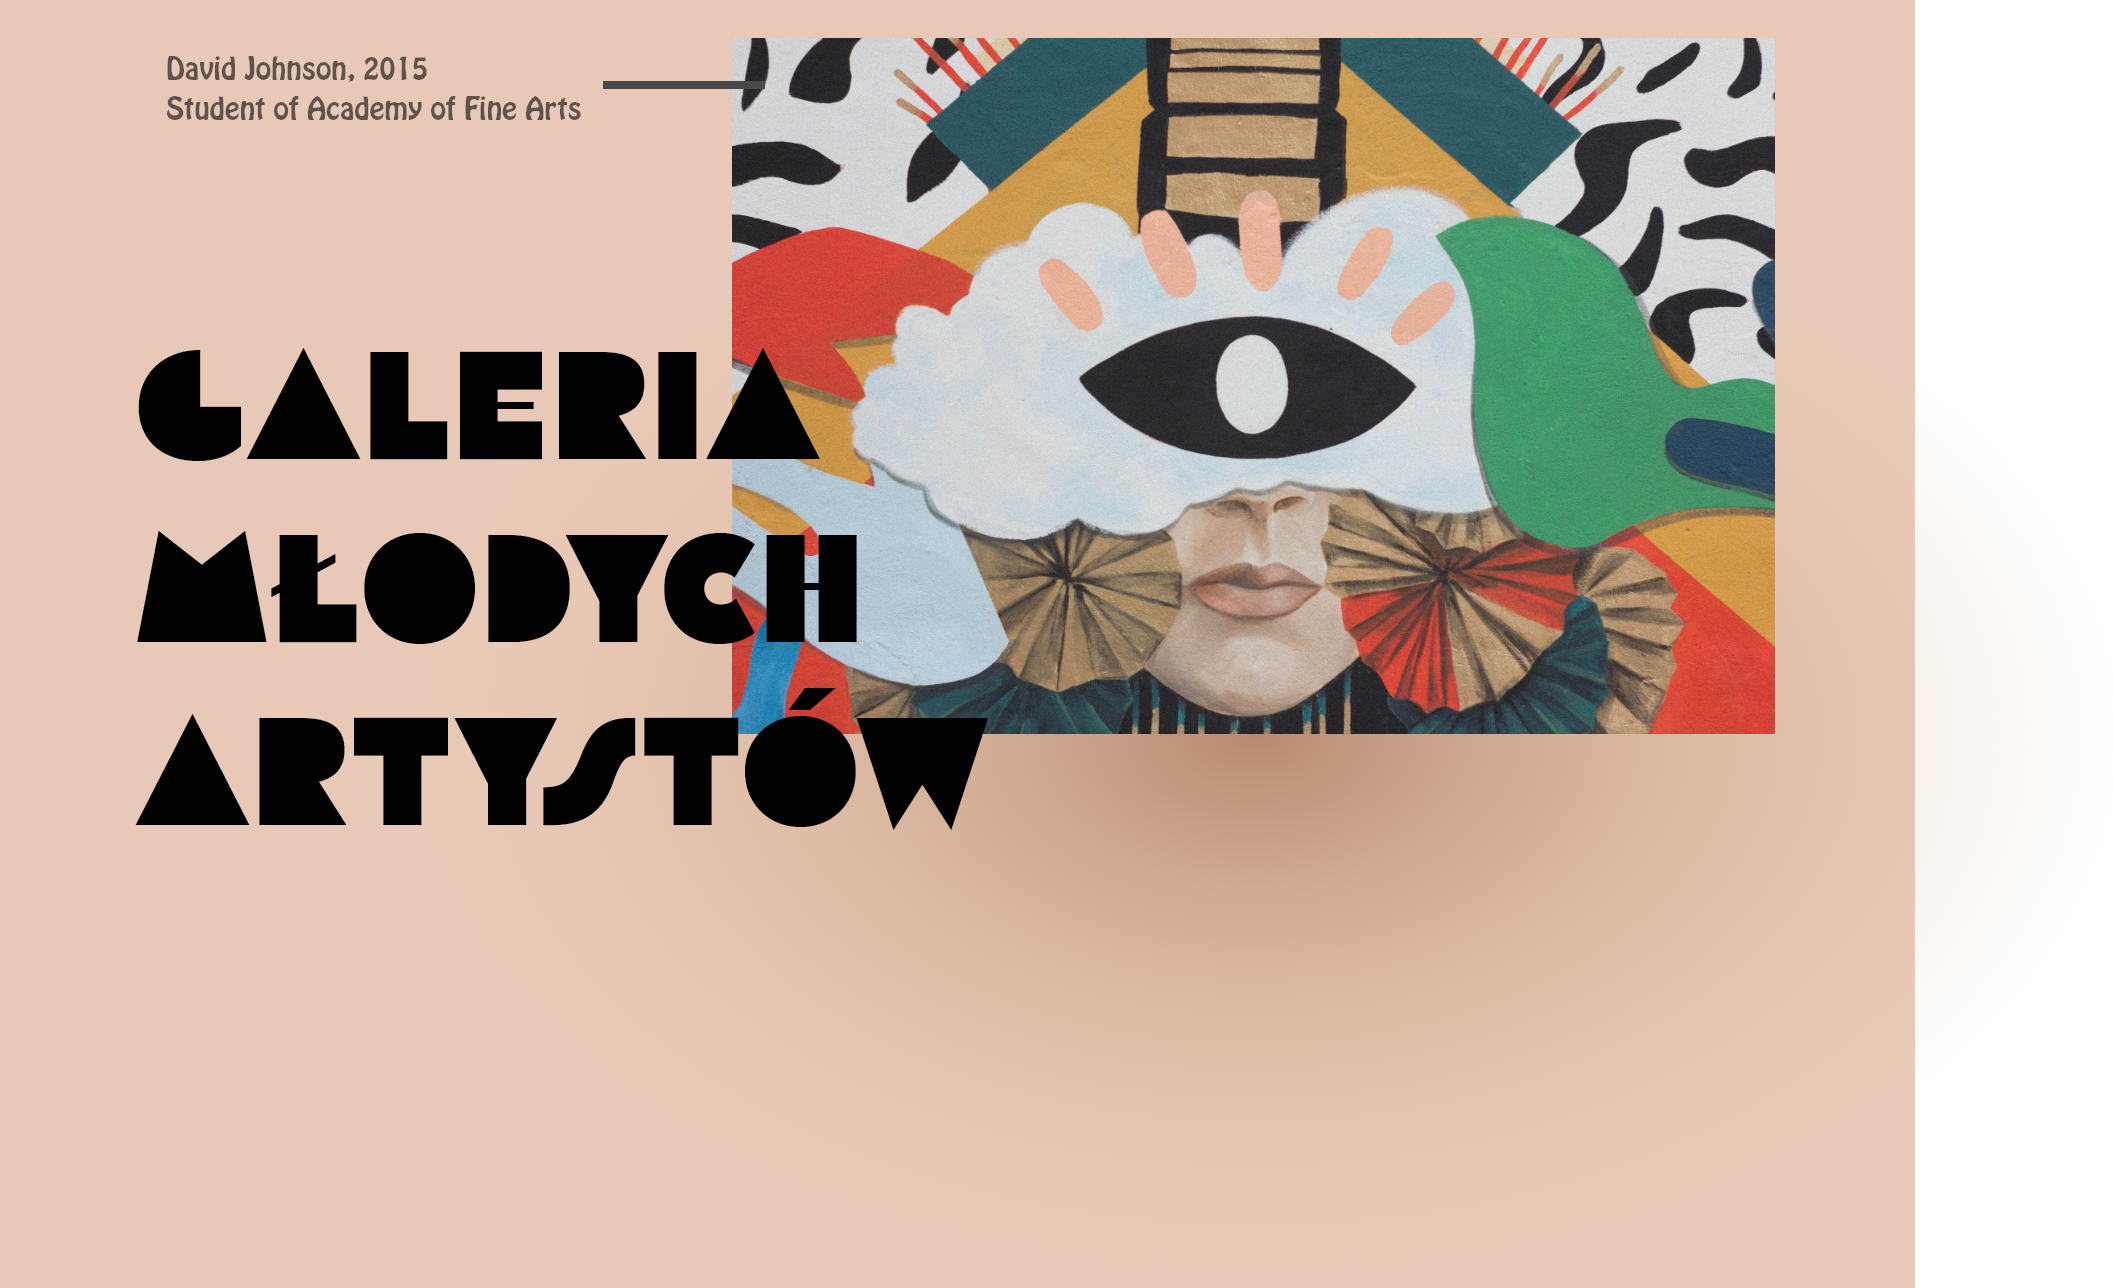
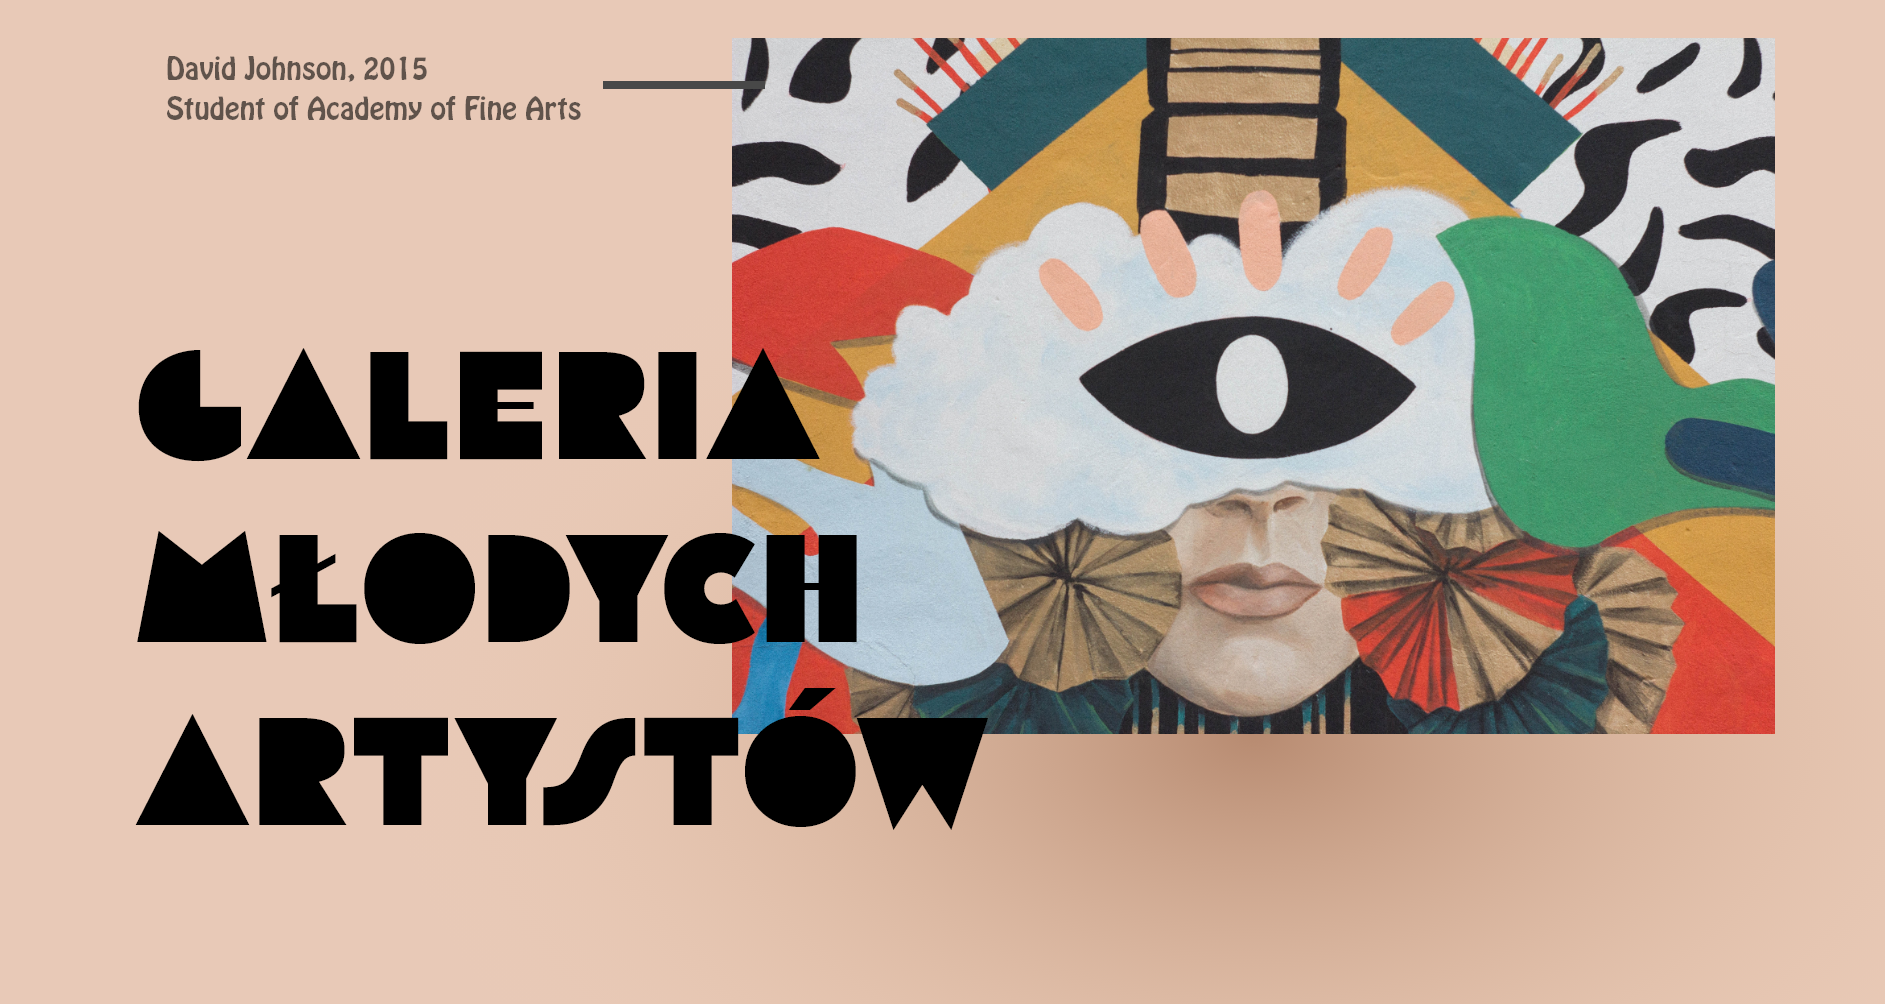
added searchbar, cart menu, updated the homepage

diff --git a/src/app/login/login.page.html b/src/app/login/login.page.html
@@ -1,50 +1,72 @@
 <ion-header [translucent]="true">
   <ion-toolbar color="pink">
     <ion-buttons slot="start">
-      <ion-menu-button autoHide="false"></ion-menu-button>    
+      <ion-menu-button autoHide="true"></ion-menu-button>    
     </ion-buttons>  
-    <ion-buttons slot="secondary">
-      <ion-button (click)="clickedSearch()">
+    <ion-searchbar mode="ios" cancel-button-icon="arrow-back-sharp" *ngIf="isSearchbarOpened" showCancelButton="true" (search)="onSearch($event)" (ionCancel)="isSearchbarOpened=false"></ion-searchbar>
+    <ion-buttons slot="end">
+      <ion-button *ngIf="!isSearchbarOpened" (click)="isSearchbarOpened=true">
         <ion-icon slot="icon-only" name="search"></ion-icon>
       </ion-button>
-      <ion-button href='/login'>
+       <ion-button href='/login' >
         <ion-icon slot="icon-only" name="person-sharp"></ion-icon>
       </ion-button>
-    </ion-buttons>
-    <ion-buttons slot="primary">
-      <ion-button>
-        <ion-icon slot="icon-only" name="cart-sharp"></ion-icon>
+      <ion-button (click)="openCart()">
+        <ion-icon slot="icon-only" name="cart-sharp">
+        </ion-icon>
       </ion-button>
     </ion-buttons>
   </ion-toolbar>
 </ion-header>
-<ion-menu side="start" menuId="menu" contentId="main">
-  <ion-content color="pink">
-    <ion-segment><br></ion-segment>
-    <ion-segment><br></ion-segment>
-    <ion-segment>
-      <ion-img  class="ion-text-center" style="width: 70px;" src="../../assets/LOGO.png" ></ion-img> <!-- logo w jakimkolwiek telefonie ucieka w prawo -->
-    </ion-segment>
-    <ion-segment><br></ion-segment>
-    <ion-button href='/tabs/feed' expand="full" fill="clear" >
-      PRACE
-    </ion-button>
-    <ion-button (click)="openInspiration()" expand="full" fill="clear" >
-      INSPIRACJE
-    </ion-button>
-    <ion-button (click)="openFrames()" expand="full" fill="clear" >
-      RAMY
-    </ion-button>
-    <ion-button (click)="openContact()" expand="full" fill="clear" >
-      KONTAKT
-    </ion-button>
-    <ion-button (click)="openFAQ()" expand="full" fill="clear" >
-      FAQ
-    </ion-button>
-  </ion-content>
-</ion-menu>
-<ion-router-outlet id="main"></ion-router-outlet>
 
+<ion-content [fullscreen]="true" color="pink">
+  <ion-menu side="start" menuId="menu" contentId="main">
+    <ion-content color="pink">
+      <ion-segment><br></ion-segment>
+      <ion-segment><br></ion-segment>
+      <ion-segment>
+        <ion-img  class="ion-text-center" style="width: 70px;" src="../../assets/LOGO.png" href='/home'></ion-img>
+      </ion-segment>
+      <ion-segment><br></ion-segment>
+      <ion-button href='/tabs/feed' expand="full" fill="clear" >
+        PRACE
+      </ion-button>
+      <ion-button (click)="openNew()" expand="full" fill="clear" >
+        NAJNOWSZE
+      </ion-button>
+      <ion-button (click)="openBestsellers()" expand="full" fill="clear" >
+        BESTSELLERS
+      </ion-button>
+      <ion-button (click)="openPaintings()" expand="full" fill="clear" >
+        OBRAZY
+      </ion-button>
+      <ion-button (click)="openPosters()" expand="full" fill="clear" >
+        PLAKATY
+      </ion-button>
+      <ion-button (click)="openPeople()" expand="full" fill="clear" >
+        TWÓRCY
+      </ion-button>
+      <ion-button (click)="openContact()" expand="full" fill="clear" >
+        KONTAKT
+      </ion-button>
+      <ion-button (click)="openFAQ()" expand="full" fill="clear" >
+        FAQ
+      </ion-button>
+    </ion-content>
+  </ion-menu>
+
+  <ion-menu side="end" menuId="cart" contentId="main">
+    <ion-content color="pink">
+      <ion-segment><br></ion-segment>
+      <ion-segment><br></ion-segment>
+      <ion-segment>
+        <ion-img style="width: 70px;" src="../../assets/LOGO.png" href='/home'></ion-img>
+      </ion-segment>
+      <ion-segment><br></ion-segment>
+      Koszyk jest pusty 
+    </ion-content>
+  </ion-menu>
+  <ion-router-outlet id="main"></ion-router-outlet>
 <ion-content color="pink" padding class="ion-align-items-center">
   <br>
   <br>

diff --git a/src/app/registration/registration.page.html b/src/app/registration/registration.page.html
@@ -1,41 +1,50 @@
 <ion-header [translucent]="true">
   <ion-toolbar color="pink">
     <ion-buttons slot="start">
-      <ion-menu-button autoHide="false"></ion-menu-button>    
+      <ion-menu-button autoHide="true"></ion-menu-button>    
     </ion-buttons>  
-    <ion-buttons slot="secondary">
-      <ion-button (click)="clickedSearch()">
+    <ion-searchbar mode="ios" cancel-button-icon="arrow-back-sharp" *ngIf="isSearchbarOpened" showCancelButton="true" (search)="onSearch($event)" (ionCancel)="isSearchbarOpened=false"></ion-searchbar>
+    <ion-buttons slot="end">
+      <ion-button *ngIf="!isSearchbarOpened" (click)="isSearchbarOpened=true">
         <ion-icon slot="icon-only" name="search"></ion-icon>
       </ion-button>
-      <ion-button href='/login'>
+       <ion-button href='/login' >
         <ion-icon slot="icon-only" name="person-sharp"></ion-icon>
       </ion-button>
-    </ion-buttons>
-    <ion-buttons slot="primary">
-      <ion-button>
-        <ion-icon slot="icon-only" name="cart-sharp"></ion-icon>
+      <ion-button (click)="openCart()">
+        <ion-icon slot="icon-only" name="cart-sharp">
+        </ion-icon>
       </ion-button>
     </ion-buttons>
   </ion-toolbar>
 </ion-header>
 
-<ion-content padding color="pink">
+<ion-content [fullscreen]="true" color="pink">
   <ion-menu side="start" menuId="menu" contentId="main">
     <ion-content color="pink">
       <ion-segment><br></ion-segment>
       <ion-segment><br></ion-segment>
       <ion-segment>
-        <ion-img  class="ion-text-center" style="width: 70px;" src="../../assets/LOGO.png" ></ion-img> <!-- logo w jakimkolwiek telefonie ucieka w prawo -->
+        <ion-img  class="ion-text-center" style="width: 70px;" src="../../assets/LOGO.png" href='/home'></ion-img>
       </ion-segment>
       <ion-segment><br></ion-segment>
       <ion-button href='/tabs/feed' expand="full" fill="clear" >
         PRACE
       </ion-button>
-      <ion-button (click)="openInspiration()" expand="full" fill="clear" >
-        INSPIRACJE
+      <ion-button (click)="openNew()" expand="full" fill="clear" >
+        NAJNOWSZE
       </ion-button>
-      <ion-button (click)="openFrames()" expand="full" fill="clear" >
-        RAMY
+      <ion-button (click)="openBestsellers()" expand="full" fill="clear" >
+        BESTSELLERS
+      </ion-button>
+      <ion-button (click)="openPaintings()" expand="full" fill="clear" >
+        OBRAZY
+      </ion-button>
+      <ion-button (click)="openPosters()" expand="full" fill="clear" >
+        PLAKATY
+      </ion-button>
+      <ion-button (click)="openPeople()" expand="full" fill="clear" >
+        TWÓRCY
       </ion-button>
       <ion-button (click)="openContact()" expand="full" fill="clear" >
         KONTAKT
@@ -45,7 +54,19 @@
       </ion-button>
     </ion-content>
   </ion-menu>
-<ion-router-outlet id="main"></ion-router-outlet>
+
+  <ion-menu side="end" menuId="cart" contentId="main">
+    <ion-content color="pink">
+      <ion-segment><br></ion-segment>
+      <ion-segment><br></ion-segment>
+      <ion-segment>
+        <ion-img style="width: 70px;" src="../../assets/LOGO.png" href='/home'></ion-img>
+      </ion-segment>
+      <ion-segment><br></ion-segment>
+      Koszyk jest pusty 
+    </ion-content>
+  </ion-menu>
+  <ion-router-outlet id="main"></ion-router-outlet>
 
 <ion-content color="pink" padding>
   <br>

diff --git a/src/app/home/home.page.html b/src/app/home/home.page.html
@@ -1,17 +1,17 @@
 <ion-header [translucent]="true">
   <ion-toolbar color="pink">
     <ion-buttons slot="start">
-      <ion-menu-button autoHide="false"></ion-menu-button>    
+      <ion-menu-button autoHide="true"></ion-menu-button>    
     </ion-buttons>  
-
-    <ion-buttons slot="secondary">
-      <ion-button (click)="clickedSearch()">
+    <ion-searchbar mode="ios" cancel-button-icon="arrow-back-sharp" *ngIf="isSearchbarOpened" showCancelButton="true" (search)="onSearch($event)" (ionCancel)="isSearchbarOpened=false"></ion-searchbar>
+    <ion-buttons slot="end">
+      <ion-button *ngIf="!isSearchbarOpened" (click)="isSearchbarOpened=true">
         <ion-icon slot="icon-only" name="search"></ion-icon>
       </ion-button>
        <ion-button href='/login' >
         <ion-icon slot="icon-only" name="person-sharp"></ion-icon>
       </ion-button>
-      <ion-button onclick="openCart()">
+      <ion-button (click)="openCart()">
         <ion-icon slot="icon-only" name="cart-sharp">
         </ion-icon>
       </ion-button>
@@ -31,11 +31,20 @@
       <ion-button href='/tabs/feed' expand="full" fill="clear" >
         PRACE
       </ion-button>
-      <ion-button (click)="openInspiration()" expand="full" fill="clear" >
-        INSPIRACJE
+      <ion-button (click)="openNew()" expand="full" fill="clear" >
+        NAJNOWSZE
       </ion-button>
-      <ion-button (click)="openFrames()" expand="full" fill="clear" >
-        RAMY
+      <ion-button (click)="openBestsellers()" expand="full" fill="clear" >
+        BESTSELLERS
+      </ion-button>
+      <ion-button (click)="openPaintings()" expand="full" fill="clear" >
+        OBRAZY
+      </ion-button>
+      <ion-button (click)="openPosters()" expand="full" fill="clear" >
+        PLAKATY
+      </ion-button>
+      <ion-button (click)="openPeople()" expand="full" fill="clear" >
+        TWÓRCY
       </ion-button>
       <ion-button (click)="openContact()" expand="full" fill="clear" >
         KONTAKT
@@ -45,11 +54,35 @@
       </ion-button>
     </ion-content>
   </ion-menu>
- 
-<ion-router-outlet id="main"></ion-router-outlet>
 
-<ion-img  src="../../assets/Background.png" ></ion-img>
+  <ion-menu side="end" menuId="cart" contentId="main">
+    <ion-content color="pink">
+      <ion-segment><br></ion-segment>
+      <ion-segment><br></ion-segment>
+      <ion-segment>
+        <ion-img style="width: 70px;" src="../../assets/LOGO.png" href='/home'></ion-img>
+      </ion-segment>
+      <ion-segment><br></ion-segment>
+      Koszyk jest pusty 
+    </ion-content>
+  </ion-menu>
+  <ion-router-outlet id="main"></ion-router-outlet>
+<ion-img data-sizes="auto" data-parent-fit="cover" alt style="object-position: center center; transform: translate3d(0px, 0px, 0px);" src="../../assets/Background.png"></ion-img>
 <ion-button href='/tabs/feed' fill="solid" color="dark"  expand="block" size="medium" padding="30">
   <ion-label>zobacz prace artystów</ion-label>
 </ion-button>
+
+<br>
+<br>
+<div>
+  <ion-text text-center >
+    <h1 class="mono">Dzień dobry!</h1>
+    <p class="mono">
+    Jesteśmy platformą dla młodych artystów, którzy chcą dzielić się swoją sztuką ze światem. <br>
+    Umożliwiamy sprzedaż i prezentacje swoich prac. <br>
+    </p> 
+</ion-text>
+</div>
+<br>
+<br>
 </ion-content>

diff --git a/src/global.scss b/src/global.scss
@@ -26,12 +26,14 @@
 @import "~@ionic/angular/css/flex-utils.css";
 
 @import url("https://p.typekit.net/p.css?s=1&k=cit6gqv&ht=tk&f=16368.43886&a=34338562&app=typekit&e=css");
+@import url('https://fonts.googleapis.com/css2?family=DM+Mono:wght@300&display=swap');
 
 @font-face {
 font-family:"hobo-std";
 src:url("https://use.typekit.net/af/10fd15/0000000000000000000131c3/27/l?primer=7cdcb44be4a7db8877ffa5c0007b8dd865b3bbc383831fe2ea177f62257a9191&fvd=n4&v=3") format("woff2"),url("https://use.typekit.net/af/10fd15/0000000000000000000131c3/27/d?primer=7cdcb44be4a7db8877ffa5c0007b8dd865b3bbc383831fe2ea177f62257a9191&fvd=n4&v=3") format("woff"),url("https://use.typekit.net/af/10fd15/0000000000000000000131c3/27/a?primer=7cdcb44be4a7db8877ffa5c0007b8dd865b3bbc383831fe2ea177f62257a9191&fvd=n4&v=3") format("opentype");
 font-display:auto;font-style:normal;font-weight:400;
 }
+
 
 @font-face {
 font-family:"flegrei";
@@ -40,6 +42,7 @@ font-display:auto;font-style:normal;font-weight:400;
 }
 .tk-hobo-std { font-family: "hobo-std",sans-serif; }
 .tk-flegrei { font-family: "flegrei",sans-serif; }
+.mono {font-family: 'DM Mono', monospace;}
 *{
     font-family: Hobo-std;
 }
@@ -65,5 +68,4 @@ ion-item{
 ion-content {
   text-align: center;
 }
-
 

diff --git a/src/app/home/home.page.ts b/src/app/home/home.page.ts
@@ -1,5 +1,5 @@
 import { Component } from '@angular/core';
-import { MenuController } from '@ionic/angular';
+import { MenuController, IonSearchbar } from '@ionic/angular';
 
 
 
@@ -10,7 +10,8 @@ import { MenuController } from '@ionic/angular';
 })
 export class HomePage {
 
-  constructor(private menu: MenuController) {}
+  public isSearchbarOpened = false;
+  constructor(public menu: MenuController) {}
 
   openMenu() {
     this.menu.enable(true, 'menu');
@@ -20,7 +21,11 @@ export class HomePage {
   openCart() {
     this.menu.open('cart');
   }
-  
+
+  onSearch(event) {
+    console.log(event.target.value);
+
+  }
 
 }
 
